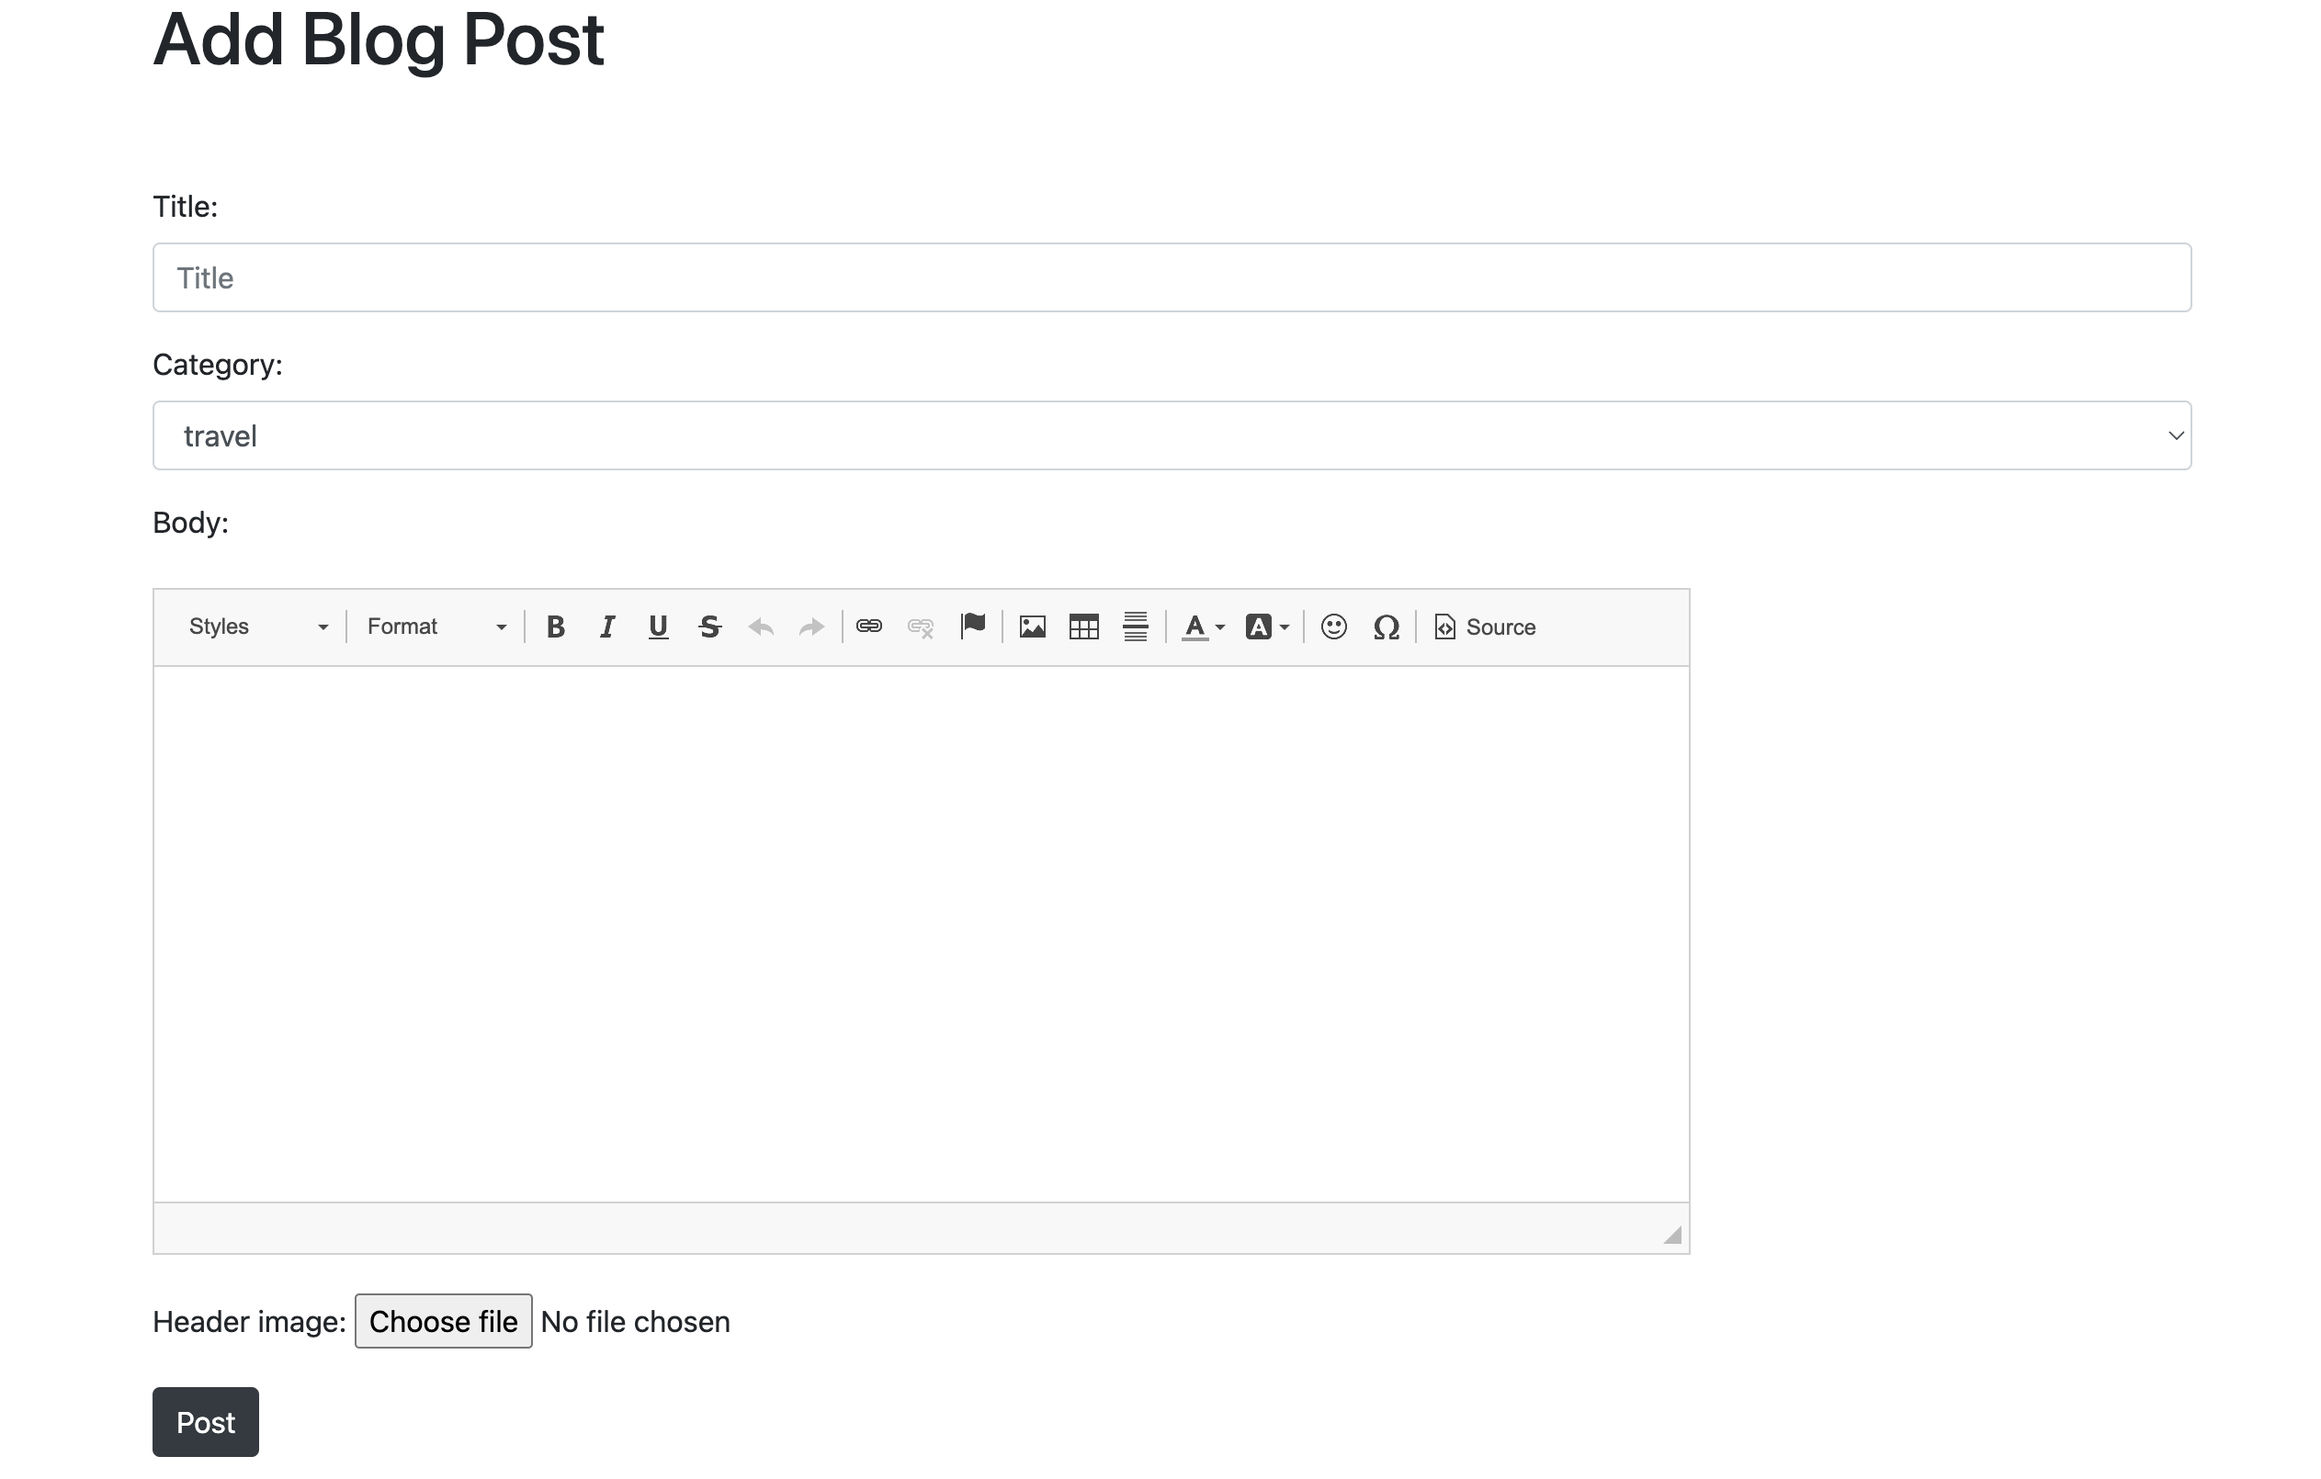
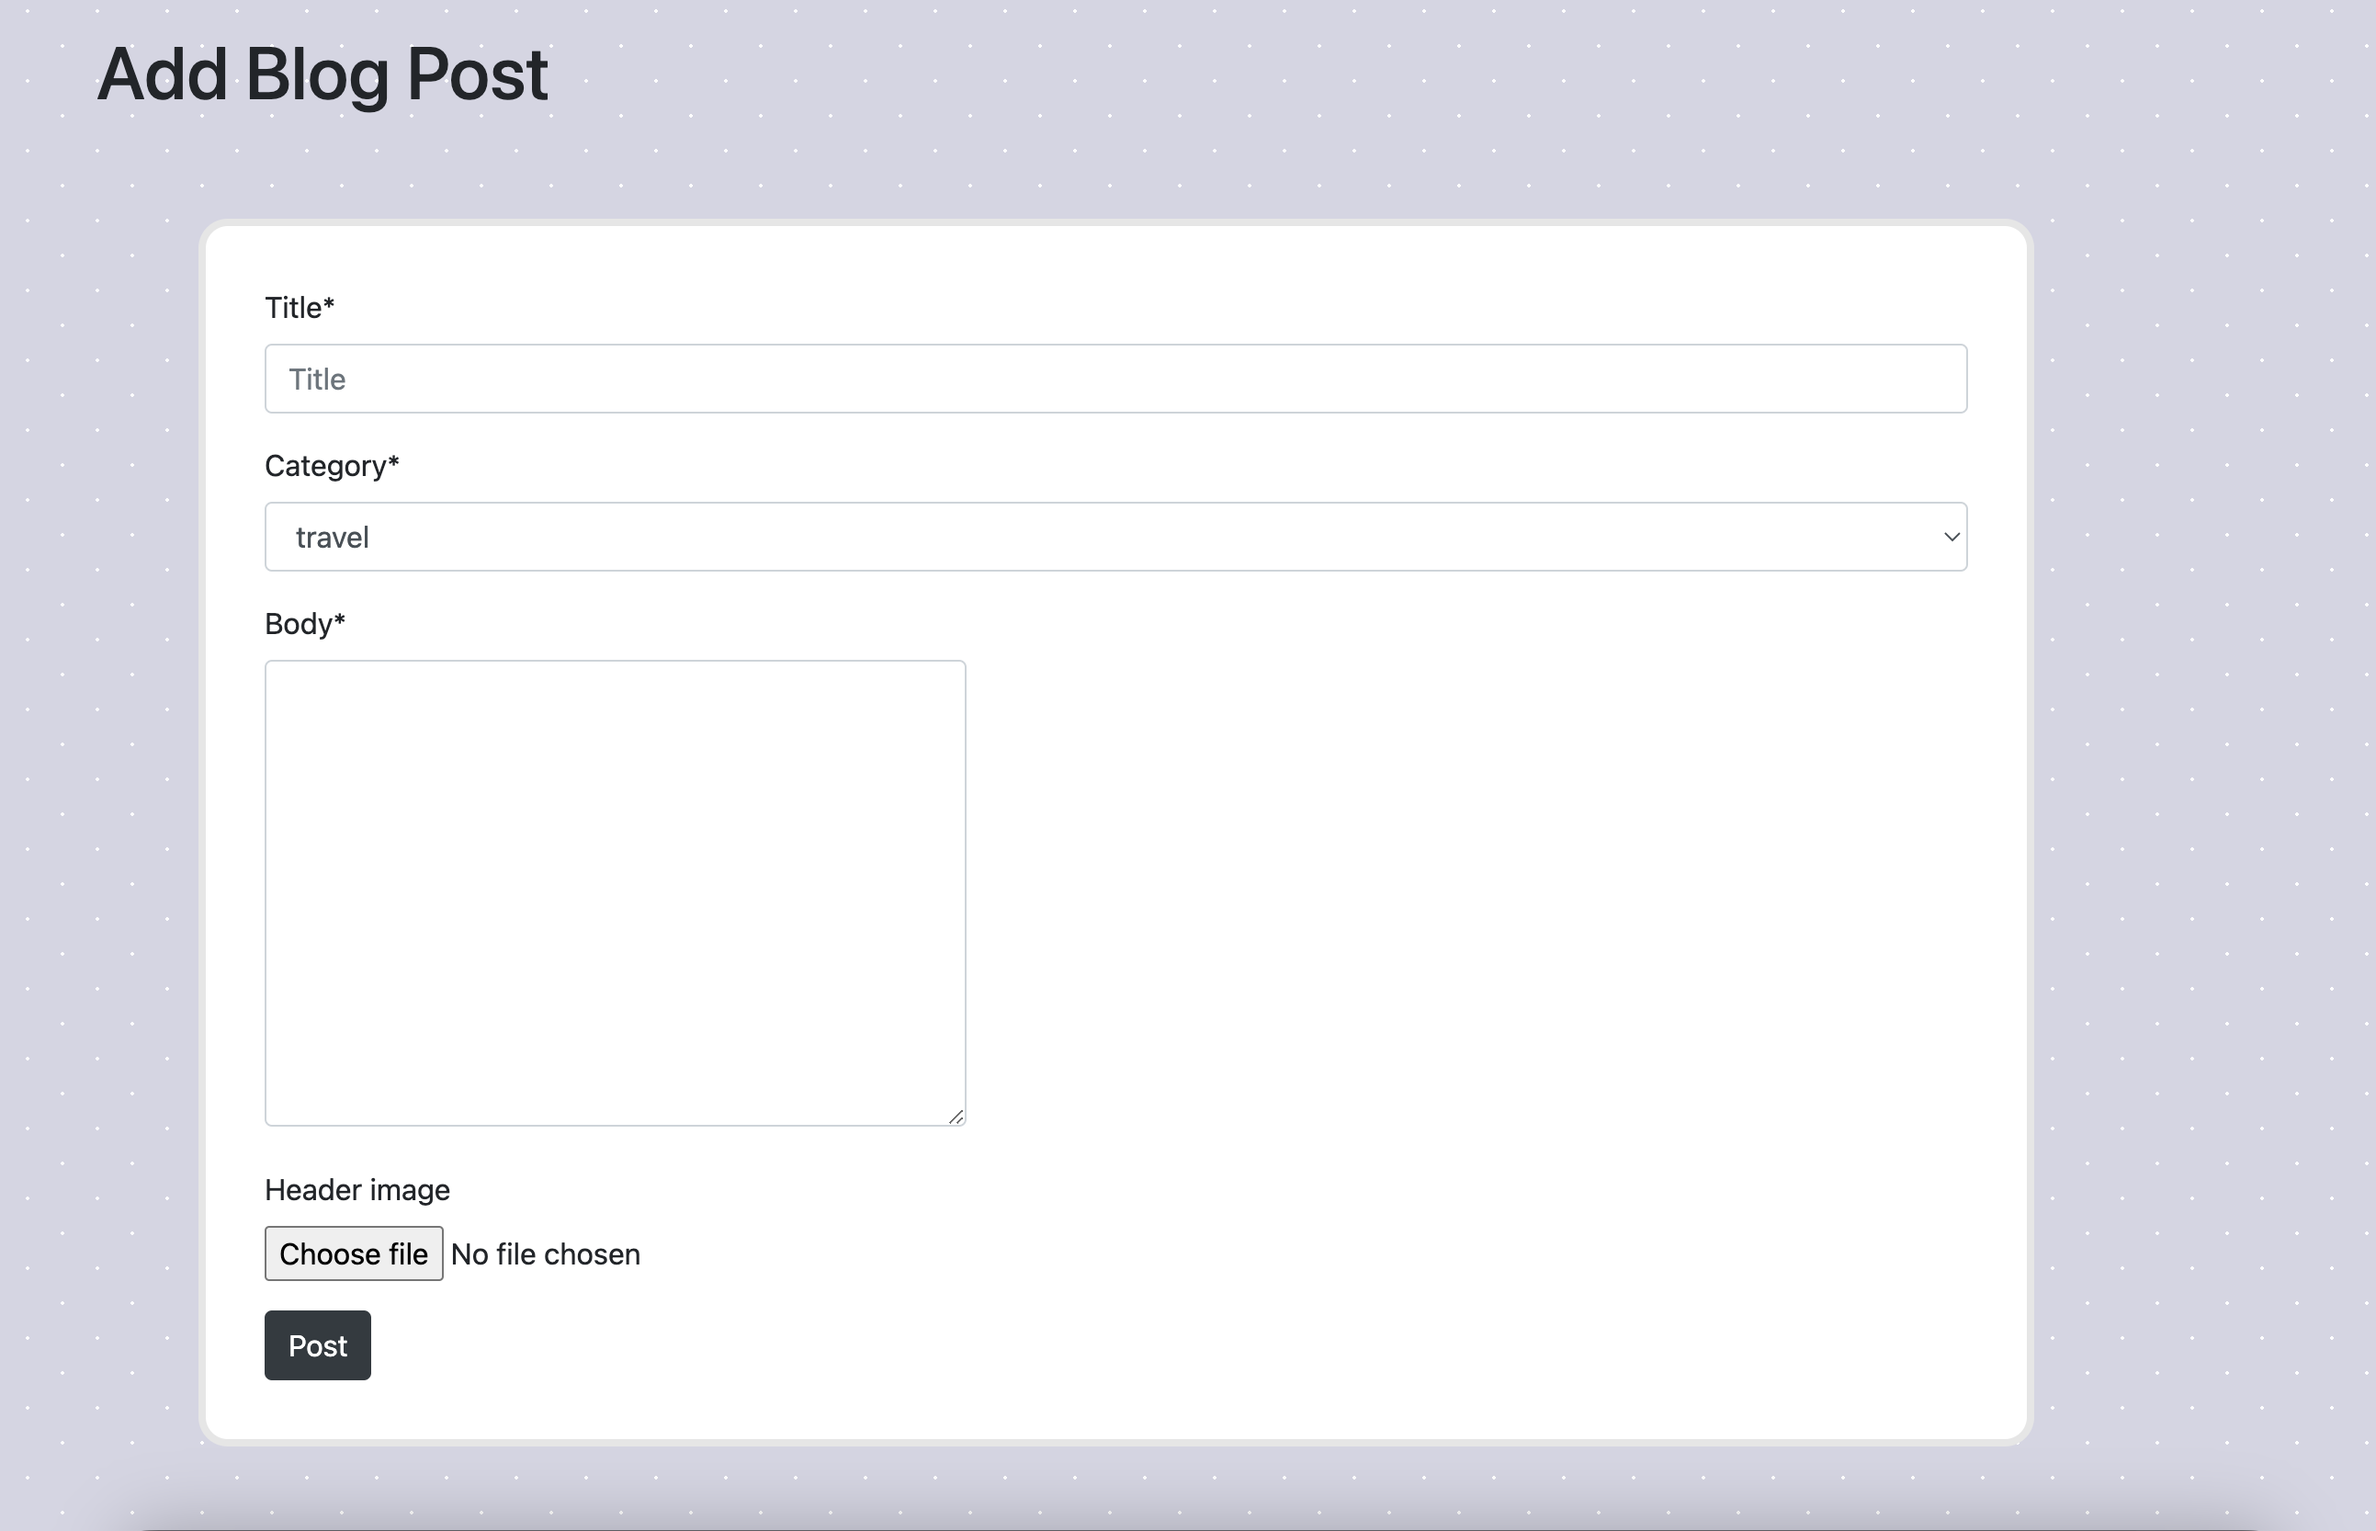
add style to forms and added screenshots to readme.md

diff --git a/templates/add_comment.html b/templates/add_comment.html
@@ -6,7 +6,7 @@
     {% if user.is_authenticated %}
         <h1>Add Comment</h1>
         <br/><br/>
-        <div class="form-group">
+        <div class="form-group login-form">
             <form method="POST" enctype="multipart/form-data">
                 {% csrf_token %}
                 {{ form.as_p }}

diff --git a/templates/add_post.html b/templates/add_post.html
@@ -8,7 +8,7 @@
 {% if user.is_authenticated %}
     <h1>Add Blog Post</h1>
     <br/><br/>
-    <div class="form-group">
+    <div class="form-group login-form">
         <form method="POST" enctype="multipart/form-data">
             {% csrf_token %}
             {{ form|crispy }}

diff --git a/templates/add_category.html b/templates/add_category.html
@@ -7,7 +7,7 @@
 {% if user.is_authenticated %}
     <h1>Add Category</h1>
     <br/><br/>
-    <div class="form-group">
+    <div class="form-group login-form">
         <form method="POST">
             {% csrf_token %}
             {{ form|crispy }}

diff --git a/members/templates/registration/change-password.html b/members/templates/registration/change-password.html
@@ -7,7 +7,7 @@
 
 <br/><br/>
 {% include "account/snippets/already_logged_in.html" %}
-<div class="form-group">
+<div class="form-group login-form">
     <form method="POST">
         {% csrf_token %}
         {{ form.as_p }}
